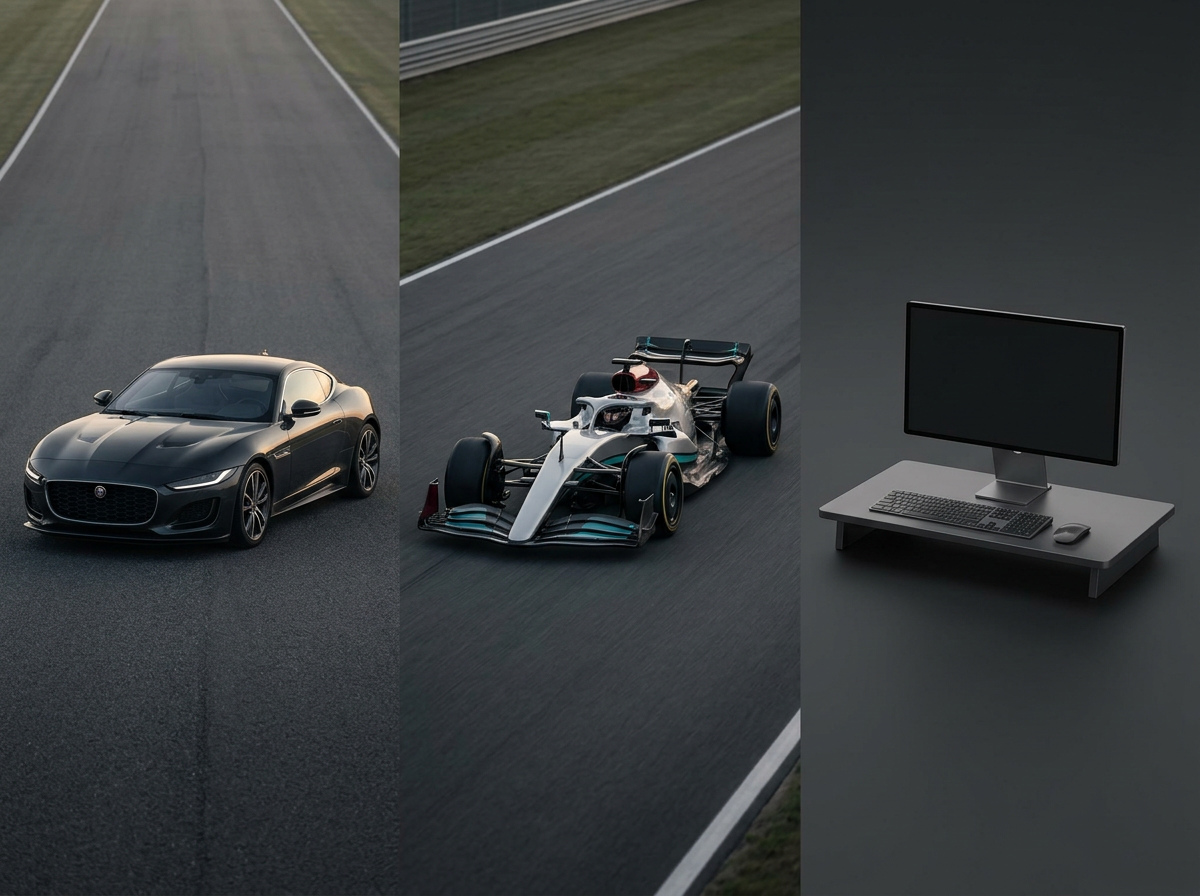
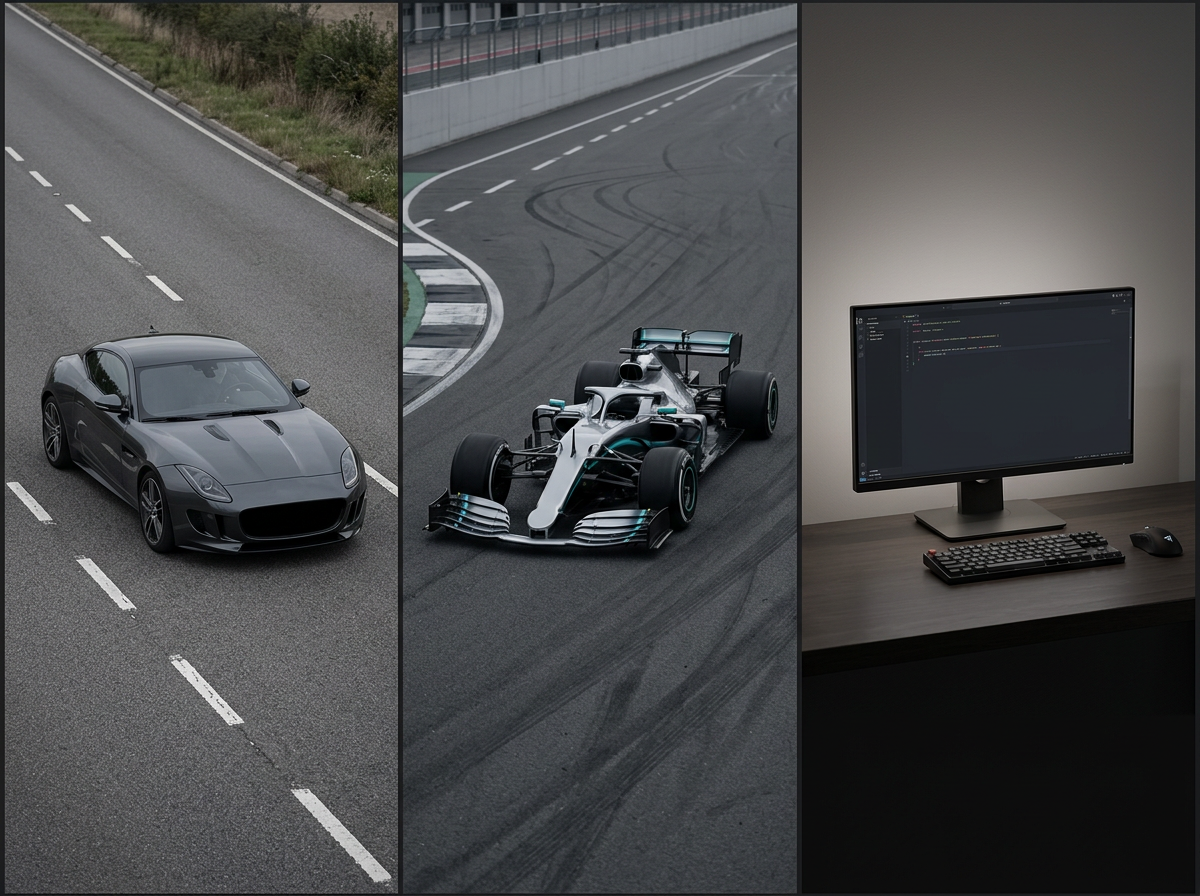
Refresh automotive scene with public road

diff --git a/components/career-journey.tsx b/components/career-journey.tsx
@@ -15,60 +15,6 @@ export function CareerJourney() {
         sizes="(min-width: 1024px) 42vw, 100vw"
         className="object-cover"
       />
-      <svg
-        aria-hidden="true"
-        className="pointer-events-none absolute inset-0 h-full w-full"
-        viewBox="0 0 1200 896"
-        preserveAspectRatio="none"
-      >
-        <defs>
-          <clipPath id="career-journey-code-screen">
-            <rect x="0" y="0" width="220" height="140" rx="2" />
-          </clipPath>
-        </defs>
-        <g transform="matrix(0.97 0.115 0 0.95 908 303)" clipPath="url(#career-journey-code-screen)">
-          <rect width="220" height="140" fill="#0d151d" />
-          <rect width="220" height="17" fill="#17232d" />
-          <circle cx="8" cy="8.5" r="2" fill="#d28c78" />
-          <circle cx="15" cy="8.5" r="2" fill="#d6bd75" />
-          <circle cx="22" cy="8.5" r="2" fill="#73b99c" />
-          <text x="32" y="11" fill="#8c9ba8" fontFamily="monospace" fontSize="6">portfolio.tsx</text>
-          <rect x="0" y="17" width="18" height="123" fill="#111c25" />
-          <text x="5" y="31" fill="#607180" fontFamily="monospace" fontSize="6">01</text>
-          <text x="5" y="43" fill="#607180" fontFamily="monospace" fontSize="6">02</text>
-          <text x="5" y="55" fill="#607180" fontFamily="monospace" fontSize="6">03</text>
-          <text x="5" y="67" fill="#607180" fontFamily="monospace" fontSize="6">04</text>
-          <text x="5" y="79" fill="#607180" fontFamily="monospace" fontSize="6">05</text>
-          <text x="5" y="91" fill="#607180" fontFamily="monospace" fontSize="6">06</text>
-          <text x="5" y="103" fill="#607180" fontFamily="monospace" fontSize="6">07</text>
-          <text x="5" y="115" fill="#607180" fontFamily="monospace" fontSize="6">08</text>
-          <text x="5" y="127" fill="#607180" fontFamily="monospace" fontSize="6">09</text>
-          <text x="25" y="31" fontFamily="monospace" fontSize="7">
-            <tspan fill="#c792ea">export</tspan><tspan fill="#cbd5df"> function </tspan><tspan fill="#82aaff">Portfolio</tspan><tspan fill="#cbd5df">() {'{'}</tspan>
-          </text>
-          <text x="25" y="43" fontFamily="monospace" fontSize="7">
-            <tspan fill="#cbd5df">  </tspan><tspan fill="#c792ea">const</tspan><tspan fill="#cbd5df"> work = </tspan><tspan fill="#c3e88d">&quot;build with care&quot;</tspan>
-          </text>
-          <text x="25" y="55" fontFamily="monospace" fontSize="7">
-            <tspan fill="#cbd5df">  </tspan><tspan fill="#c792ea">return</tspan><tspan fill="#cbd5df"> (</tspan>
-          </text>
-          <text x="25" y="67" fontFamily="monospace" fontSize="7">
-            <tspan fill="#cbd5df">    &lt;</tspan><tspan fill="#f78c6c">main</tspan><tspan fill="#cbd5df">&gt;</tspan>
-          </text>
-          <text x="25" y="79" fontFamily="monospace" fontSize="7">
-            <tspan fill="#cbd5df">      &lt;</tspan><tspan fill="#f78c6c">section</tspan><tspan fill="#cbd5df"> /&gt;</tspan>
-          </text>
-          <text x="25" y="91" fontFamily="monospace" fontSize="7">
-            <tspan fill="#cbd5df">    &lt;/</tspan><tspan fill="#f78c6c">main</tspan><tspan fill="#cbd5df">&gt;</tspan>
-          </text>
-          <text x="25" y="103" fontFamily="monospace" fontSize="7">
-            <tspan fill="#cbd5df">  )</tspan>
-          </text>
-          <text x="25" y="115" fontFamily="monospace" fontSize="7">
-            <tspan fill="#cbd5df">{'}'}</tspan>
-          </text>
-        </g>
-      </svg>
       <div
         className="pointer-events-none absolute inset-0 bg-gradient-to-t from-background/90 via-transparent to-background/10"
         aria-hidden="true"
